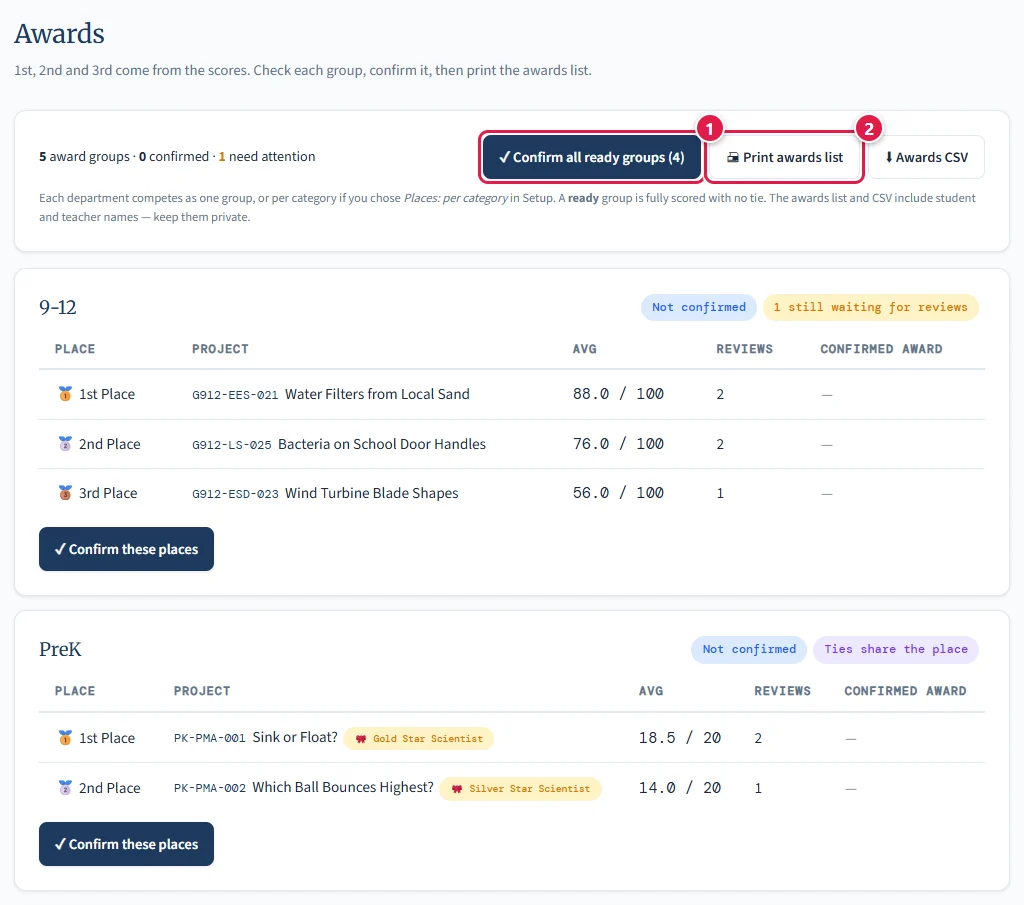
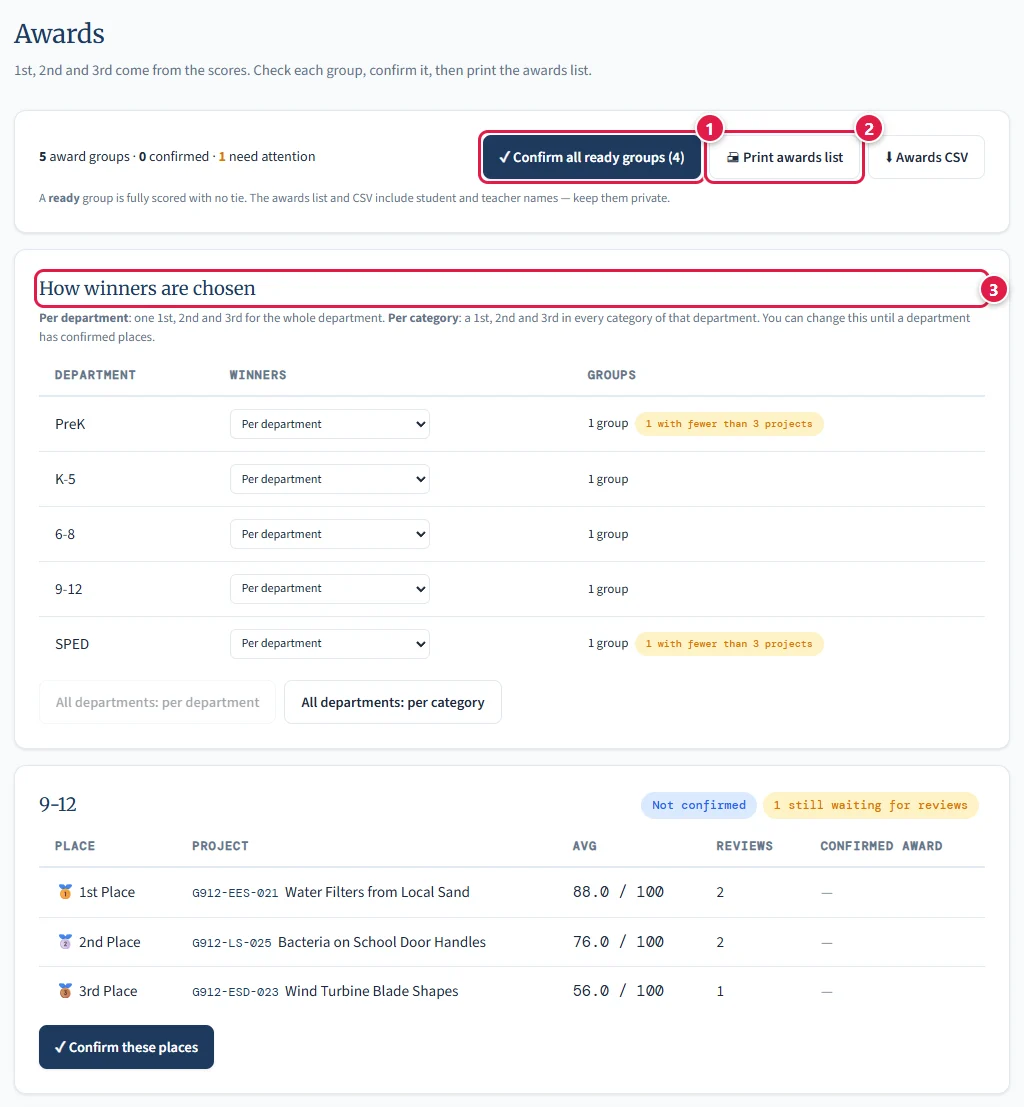
feat(awards): choose winners per department or per category on the Awards tab
- Awards tab "How winners are chosen": per department / per category for each
  scored department, plus "All departments" buttons. Same setting as Setup's
  Places dropdown; updateDeptAwardGrouping() now returns its refusal and reports
  it where the admin pressed. A refused department never blocks the others.
- Chips for groups that cannot award three places (1 project: uncontested 1st;
  2 projects: no 3rd), and a per-department count.
- Help, admin guide step + screenshot marker, AdminInstructions (the "change it
  at any time" line was wrong), CLAUDE.md change history + known gaps.
- New scripts/e2e/awards-category.e2e.mjs (17 checks, mutation-tested).

diff --git a/src/ScienceFairJudging.jsx b/src/ScienceFairJudging.jsx
@@ -590,7 +590,7 @@ const DIV_CODES     = { "Elementary": "Elem", "Junior High School": "JHS", "Seni
 // ⚠ KEEP THIS CURRENT. Any change that affects what admins or judges see or do must update
 // this text, ADMIN_HELP_UPDATED, AdminInstructions.md and JudgeInstructions.md in the SAME
 // commit (CLAUDE.md rule 56). Plain strings only — rendered as text, never as HTML.
-const ADMIN_HELP_UPDATED = "2026-11-16";
+const ADMIN_HELP_UPDATED = "2026-11-16b";
 const ADMIN_HELP = [
   { title: "How this system works", icon: "🧭", items: [
     "Your fair lives at qritiko.com/s/your-school. Share only that link — never another address (judges' unsynced scores are tied to the address they used).",
@@ -696,14 +696,16 @@ const ADMIN_HELP = [
     ["Can I ignore the suggestion?", "Yes, completely. Tick the grid however you like — it is only a starting point. Apply never saves on its own."],
   ]},
   { title: "Awards (1st, 2nd, 3rd)", icon: "🏅", faq: [
-    ["Who competes with whom?", "By default everyone in a DEPARTMENT competes for its 1st, 2nd and 3rd. In Setup → Departments each scored department has a second dropdown, 'Places: per department / per category'. Per category gives every category inside that department its own 1st–3rd (e.g. 6-8 Life Science, 6-8 Chemistry …). Use it only where categories have enough projects — a category with one project would get an uncontested 1st."],
+    ["Who competes with whom?", "By default everyone in a DEPARTMENT competes for its 1st, 2nd and 3rd. Per category gives every category inside that department its own 1st–3rd (e.g. K-5 Life Science, K-5 Chemistry …). Choose it on the Awards tab under 'How winners are chosen' (one department, or All departments at once) or in Setup → Departments ('Places: per department / per category') — it is the same setting. A category with ONE project gets an uncontested 1st whatever its score, and one with two projects has no 3rd; the Awards tab marks those groups."],
+    ["We want 3 winners in EACH category of a department. How?", "Awards tab → How winners are chosen → set that department to Per category. Every category in it then gets its own 1st, 2nd and 3rd, and Confirm all ready groups confirms them all in one go. Do it BEFORE you confirm any places: once a department has confirmed places the switch is refused (press Clear confirmed places on its groups first). Switching never changes a score. To go back, choose Per department the same way."],
     ["Do I have to type every award?", "No. The Awards tab shows every group with its top three already worked out from the scores. Check it and press '✓ Confirm these places', or '✓ Confirm all ready groups' to confirm every group that is fully scored and has no tie, in one go. Honorable Mention and Best in Category you give in the Validation tab: press Open Manually (or Open Deliberation on a tie alert), choose the award beside the project and Save, then Close Deliberation — Finalize needs deliberation closed. A project holds one award: once it has a saved Honorable Mention, Best in Category or No Award it is out of the running for 1st–3rd, and the place passes to the next project."],
     ["What do the coloured labels mean?", "Not confirmed — nothing saved yet. ✓ Confirmed — saved and still what the scores say. Tie for 1st/2nd/3rd — two projects are level where it decides a place; decide it in Validation → Deliberation. ✓ Decided by hand — you gave the places yourself (e.g. after a tie). A tie counts as decided once all but one of the tied projects have an award you saved after the last score changed (the last one takes the place that is left). Only some places confirmed — you saved some places; press Confirm the remaining places. Scores changed since you confirmed — a judge re-scored after you confirmed; press Re-confirm, or decide by hand. 'N not scored yet' — some projects in the group have no score. 'N still waiting for reviews' — some projects have fewer reviews than they should get (their scheduled visits); the group is not ready until they are in. Groups that need you are listed first, and the Awards menu item shows how many."],
     ["What do the public results show — my awards or the scores?", "Your confirmed awards, once a group has any; until then the places worked out from the scores. That is how a tie you broke in deliberation reaches the podium. If you clear a group ('Clear confirmed places') it goes back to the computed places."],
     ["Which ties raise the amber alert?", "Only ties that decide a place: two projects level for 1st, 2nd or 3rd, or level across 3rd and 4th, in the same award group. A tie lower down decides nothing and does not raise it. A tie you have already decided (all but one of the tied projects have an award saved after the last score change), and ties on the PreK & SPED form (they share the place), never do. Saving only some places does NOT decide a tie further down. Finalize stays unavailable while a tie still decides a place."],
     ["How do I get the list for the ceremony?", "Awards tab → '🖨 Print awards list' (or '⬇ Awards CSV'): every group with its places, any special award, every ribbon, the student names and the teacher. It includes names, so it is for you only — never post it. Groups you have not confirmed yet are marked 'computed, not confirmed yet'."],
     ["How do I open deliberation?", "It never opens by itself. A tie that decides a place shows an amber 'Tie detected' alert in the Validation tab with an Open Deliberation button; Open Manually works any time. While it is open, judges see a 💬 Deliberation Notes section under their list (a recommendation, a comment, a flag), you see their notes per project and can give any award. Press Close Deliberation when you are done — Finalize needs it closed."],
-    ["Where do I choose places per department or per category?", "Setup → Departments: each scored department's row has a dropdown 'Places: per department' — beside the rubric dropdown. If you cannot see it, reload the page."],
+    ["Where do I choose places per department or per category?", "Two places, one setting: the Awards tab → How winners are chosen (per department, or All departments at once), or Setup → Departments → the 'Places: per department' dropdown beside the rubric dropdown. If you cannot see it, reload the page."],
+    ["Why can't I switch a department to per category (or back)?", "It already has confirmed places. They belong to projects, so switching would carry them into the wrong groups. On the Awards tab press Clear confirmed places on that department's groups, switch, then confirm again. After Finalize the choice is read-only."],
     ["Can I change awards after I finalize?", "Not while results are finalized — the Awards tab becomes read-only. Reopen the results in the Validation tab, change them, and finalize again. While results are reopened, the public link shows \"Results are being updated\" (the same link works again once you finalize). To take a saved award back, choose Pending in its dropdown and press Save (remove award) — a dropdown change does nothing until it is saved."],
   ]},
   { title: "PreK & SPED: ribbons and shared places", icon: "🎀", faq: [
@@ -950,6 +952,7 @@ const ADMIN_GUIDE = [
     points: [
       "✓ Confirm all ready groups — confirms every group that is fully scored and has no tie, in one go.",
       "🖨 Print awards list for the ceremony. It has student names — staff only.",
+      "How winners are chosen — per department (one 1st–3rd) or per category (a 1st–3rd in every category). Decide before you confirm.",
     ],
     tip: "Awards tab. Groups that need you (a tie, missing reviews, changed scores) are listed first. Decide a tie in Validation → Open Deliberation." },
   { img: "admin-9-validation", title: "Validate and finalize",
@@ -5724,37 +5727,64 @@ export default function App() {
       mode === "confirm" ? "Admin confirmed computed places" : "Admin cleared confirmed places",
       { groups: groups.length, awards: placed, cleared: rows.length - placed });
   }
-  async function updateDeptAwardGrouping(deptId, value) {
+  // `report` shows a refusal where the admin pressed the control (Setup, or the Awards tab —
+  // 2026-11-16). Returns "" on success (or nothing to change), else the message shown.
+  async function updateDeptAwardGrouping(deptId, value, report = setSetupErr) {
     const dept = departments.find(d => d.id === deptId);
-    if (!dept || (value !== "category" && value !== "department") || dept.award_grouping === value) return;
-    setSetupErr("");
+    if (!dept || (value !== "category" && value !== "department") || dept.award_grouping === value) return "";
+    report("");
     // F7d (N6): confirmed places belong to projects, not to groups. Regrouping with places saved
     // carried them into the new groups — per category → per department gave one department six
     // 1sts on the public podium. Clear them first; never after results are finalized.
     if (resultsFinalized) {
-      setSetupErr(`Results are finalized — reopen them (Validation tab) before changing how "${dept.name}" awards places.`);
-      return;
+      const msg = `Results are finalized — reopen them (Validation tab) before changing how "${dept.name}" awards places.`;
+      report(msg);
+      return msg;
     }
     const placedHere = projects.filter(p => (p.department_id || null) === deptId
       && finalDecisions[p.id]?.finalized && PLACE_AWARDS.includes(finalDecisions[p.id].award));
     if (placedHere.length) {
-      setSetupErr(`"${dept.name}" already has ${placedHere.length} confirmed place${placedHere.length !== 1 ? "s" : ""}. Clear them on the Awards tab first, then change how it awards places — otherwise they would land in the wrong groups.`);
-      return;
+      const msg = `"${dept.name}" already has ${placedHere.length} confirmed place${placedHere.length !== 1 ? "s" : ""}. Clear them on the Awards tab first, then change how it awards places — otherwise they would land in the wrong groups.`;
+      report(msg);
+      return msg;
     }
     const { data, error } = await supabase.from("departments").update({ award_grouping: value })
       .eq("school_id", currentSchool.id).eq("id", deptId).select("id");
     if (error || !data?.length) {
       const missing = MISSING_COL(error);
-      setSetupErr(missing
+      const msg = missing
         ? "Awarding by category needs database update 2026-10f, which has not been run. Nothing was changed."
-        : `Could not change how "${dept.name}" awards places: ${error?.message || "nothing was saved"}`);
+        : `Could not change how "${dept.name}" awards places: ${error?.message || "nothing was saved"}`;
+      report(msg);
       addItLog(missing ? "WARN" : "ERROR","DB", missing ? "AWARD_GROUPING_COL_MISSING" : "AWARD_GROUPING_FAILED",
         "A department's award grouping could not be written", { dept: dept.name, value, error: error?.message || "0 rows" });
-      return;
+      return msg;
     }
     setDepartments(prev => prev.map(d => d.id === deptId ? { ...d, award_grouping: value } : d));
     addLog(`Admin set ${dept.name} to award places ${value === "category" ? "per category" : "per department"}`);
     addItLog("INFO","ADMIN","AWARD_GROUPING_SET","Admin changed how a department awards places",{ dept: dept.name, value });
+    return "";
+  }
+  // Awards tab (2026-11-16): change one department, or every scored department at once. One
+  // write per department, in order; a refused department (confirmed places, finalized) is named
+  // and the others still change. Nothing here touches a score or an award.
+  async function setAwardGroupingFromAwards(deptIds, value) {
+    if (awardsBusy) return;
+    setAwardsMsg(null);
+    const targets = departments.filter(d => d.id && deptIds.includes(d.id) && d.scoring_mode !== "feedback" && (d.award_grouping || "department") !== value);
+    if (!targets.length) { setAwardsMsg({ ok: true, text: "Nothing to change." }); return; }
+    setAwardsBusy(true);
+    const refused = [];
+    for (const d of targets) {
+      const msg = await updateDeptAwardGrouping(d.id, value, () => {});
+      if (msg) refused.push(msg);
+    }
+    setAwardsBusy(false);
+    const changed = targets.length - refused.length;
+    const how = value === "category" ? "per category" : "per department";
+    setAwardsMsg(refused.length
+      ? { ok: false, text: `${changed ? `${changed} department${changed !== 1 ? "s" : ""} changed to places ${how}. ` : ""}Not changed: ${refused.join(" ")}` }
+      : { ok: true, text: `${targets.map(d => d.name).join(", ")} now award${targets.length === 1 ? "s" : ""} places ${how}.` });
   }
   // Every place in one department, across its groups (leaderboard).
   function deptPlaces(deptId) {
@@ -12113,10 +12143,64 @@ export default function App() {
                     </div>
                   </div>
                   <div style={{fontSize:".78rem",color:"var(--dim)",marginTop:".6rem",lineHeight:1.5}}>
-                    Each department competes as one group, or per category if you chose <i>Places: per category</i> in Setup.
                     A <b>ready</b> group is fully scored with no tie. The awards list and CSV include student and teacher names — keep them private.
                   </div>
                 </div>
+                {/* 2026-11-16: choose here (as well as in Setup) whether a department gives 1st–3rd once,
+                    or once in every category. Same rules as Setup: refused while that department has
+                    confirmed places or results are finalized. */}
+                {(() => {
+                  const scoredDepts = departments.filter(d => d.id && d.scoring_mode !== "feedback" && rankedProjectsIn(d.id).length);
+                  if (!scoredDepts.length) return null;
+                  const nCat = scoredDepts.filter(d => d.award_grouping === "category").length;
+                  return (
+                    <div className="card" data-testid="awards-grouping" style={{marginBottom:"1rem"}}>
+                      <div className="sec-title" style={{marginBottom:".35rem"}}>How winners are chosen</div>
+                      <div style={{fontSize:".8rem",color:"var(--dim)",lineHeight:1.5,marginBottom:".6rem"}}>
+                        <b>Per department</b>: one 1st, 2nd and 3rd for the whole department.{" "}
+                        <b>Per category</b>: a 1st, 2nd and 3rd in every category of that department.
+                        You can change this until a department has confirmed places.
+                      </div>
+                      <div className="tbl-wrap">
+                        <table>
+                          <thead><tr><th>Department</th><th>Winners</th><th>Groups</th></tr></thead>
+                          <tbody>
+                            {scoredDepts.map(d => {
+                              const gs = groups.filter(g => g.deptId === d.id);
+                              const small = gs.filter(g => g.projects.length < 3).length;
+                              return (
+                                <tr key={d.id} data-testid="grouping-row" data-dept={d.name}>
+                                  <td>{d.name}</td>
+                                  <td>
+                                    <select className="setup-mode" value={d.award_grouping || "department"}
+                                      aria-label={`Winners for ${d.name}`} disabled={awardsBusy || resultsFinalized}
+                                      onChange={e => setAwardGroupingFromAwards([d.id], e.target.value)}>
+                                      <option value="department">Per department</option>
+                                      <option value="category">Per category</option>
+                                    </select>
+                                  </td>
+                                  <td style={{fontSize:".8rem"}}>
+                                    {gs.length} group{gs.length !== 1 ? "s" : ""}
+                                    {small > 0 && <span className="badge ba" data-testid="grouping-small" style={{marginLeft:".4rem",fontSize:".62rem"}}>
+                                      {small} with fewer than 3 projects</span>}
+                                  </td>
+                                </tr>
+                              );
+                            })}
+                          </tbody>
+                        </table>
+                      </div>
+                      <div style={{display:"flex",gap:".5rem",flexWrap:"wrap",marginTop:".6rem"}}>
+                        <button className="btn sec sm" style={{width:"auto"}} data-testid="grouping-all-dept"
+                          disabled={awardsBusy || resultsFinalized || nCat === 0}
+                          onClick={() => setAwardGroupingFromAwards(scoredDepts.map(d => d.id), "department")}>All departments: per department</button>
+                        <button className="btn sec sm" style={{width:"auto"}} data-testid="grouping-all-cat"
+                          disabled={awardsBusy || resultsFinalized || nCat === scoredDepts.length}
+                          onClick={() => setAwardGroupingFromAwards(scoredDepts.map(d => d.id), "category")}>All departments: per category</button>
+                      </div>
+                    </div>
+                  );
+                })()}
                 {!groups.length && <div className="card" style={{color:"var(--dim)"}}>No scored departments yet.</div>}
                 {shown.map(g => {
                   const { st } = g;
@@ -12134,6 +12218,8 @@ export default function App() {
                           {st.unscored > 0 && chip("ba", `${st.unscored} not scored yet`, "st-unscored")}
                           {st.missing > 0 && chip("ba", `${st.missing} still waiting for reviews`, "st-missing")}
                           {g.projects[0] && tiesShare(g.projects[0]) && chip("bp", "Ties share the place", "st-share")}
+                          {g.projects.length === 1 && chip("ba", "Only 1 project — 1st is uncontested", "st-single")}
+                          {g.projects.length === 2 && chip("ba", "Only 2 projects — no 3rd place", "st-two")}
                         </div>
                       </div>
                       {st.state === "tie" && (

diff --git a/CLAUDE.md b/CLAUDE.md
@@ -31,7 +31,7 @@ and runs its own fair with isolated data, its own rubric and its own admin login
 | Deploy | Push to `main` → auto-deploys. No manual steps |
 | Base schema | [supabase/schema-v2.sql](supabase/schema-v2.sql) (**base only**) + every migration below, in order |
 | Tests | `npm test` — mocked scan API + mocked registration email + real-Postgres (PGlite) migration/RLS/Storage-policy suite (311 checks). Run after any `supabase/*.sql` or `api/` change |
-| Browser tests | `npm run test:e2e` — real app in Edge with Supabase + scan API faked (`scripts/e2e/mock.mjs`): school sign-up, admin, scanner, judge, Setup tab, public registration, phone/tablet widths, multi-judge judging (`judging.e2e.mjs`), the 2026-27 forms + drafts + safety (`rubrics-2627.e2e.mjs`), the judging schedule (`schedule.e2e.mjs`), the PreK & SPED form (`prek-sped.e2e.mjs`), awards (`awards.e2e.mjs`). Start the dev server first (see the file header). 2026-11 added save-robust, offline-start, realtime-reconnect (a fake realtime server via `page.routeWebSocket`), awards-integrity, finalize-gates, signin-guard, share-links, admin-actions, judge-ux, judge-identity; 2026-11-05 help-guide (the illustrated guides); 2026-11-06 schedule-template. **656 checks across 36 files** (2026-11-06; signup and save-robust each flaked once in a chained run and passed alone). `npm run help:shots` (same dev server) re-takes the guide screenshots — not a test |
+| Browser tests | `npm run test:e2e` — real app in Edge with Supabase + scan API faked (`scripts/e2e/mock.mjs`): school sign-up, admin, scanner, judge, Setup tab, public registration, phone/tablet widths, multi-judge judging (`judging.e2e.mjs`), the 2026-27 forms + drafts + safety (`rubrics-2627.e2e.mjs`), the judging schedule (`schedule.e2e.mjs`), the PreK & SPED form (`prek-sped.e2e.mjs`), awards (`awards.e2e.mjs`). Start the dev server first (see the file header). 2026-11 added save-robust, offline-start, realtime-reconnect (a fake realtime server via `page.routeWebSocket`), awards-integrity, finalize-gates, signin-guard, share-links, admin-actions, judge-ux, judge-identity; 2026-11-05 help-guide (the illustrated guides); 2026-11-06 schedule-template; 2026-11-16 validate-queued, awards-category. **684 checks across 38 files** (2026-11-16; signup and save-robust each flaked once in a chained run and passed alone). `npm run help:shots` (same dev server) re-takes the guide screenshots — not a test |
 | Server env vars | `GEMINI_API_KEY` (paid key), optional `GEMINI_MODEL`, `RESEND_API_KEY`, `EMAIL_FROM` — Vercel only, never `VITE_` |
 
 ⚠ **Apex outage, 2026-10-01:** the apex A record pointed at `216.198.79.1`, which answered
@@ -702,7 +702,8 @@ awardGroups()                // Phase 3 (rule 79): [{key, deptId, deptName, cat|
                              // one per department, or per category where award_grouping = "category"
 confirmedPlaces(projs), groupPlaces(projs), deptPlaces(deptId)   // confirmed awards win over computed places
 groupTie(g), tieGroups(), hasTie(), groupStatus(g)   // medal-deciding ties per group; Awards-tab state
-confirmAwardGroups(groups, "confirm"|"clear"), updateDeptAwardGrouping(id, v)
+confirmAwardGroups(groups, "confirm"|"clear"), updateDeptAwardGrouping(id, v, report?) → "" | refusal text
+setAwardGroupingFromAwards(deptIds, v)   // Awards tab "How winners are chosen" (one department or all); a refused department never blocks the others
 awardsListRows(), printAwardsList(), exportAwardsCSV()   // ceremony list — names, admin only
 tiesShare(proj), ribbonOf(proj)   // PreK & SPED form (rule 78): tied averages share a place; the ribbon
 ribbonFor(settings, avg)     // module: the ribbon band for an average, or null when the rubric has none
@@ -1165,6 +1166,31 @@ Migrations table above, and say in the commit whether it is coupled to the app b
 ## 🐛 Change History (condensed)
 
 Full detail is in the git log for each commit.
+
+**2026-11-16 — Winners per category chosen on the Awards tab; per-category stress test** (no migration).
+The organiser asked for 3 winners in EACH category (e.g. K-5). That already existed (Setup → Places: per category,
+Phase 3) but was hidden in Setup; live had every department per department.
+- **Awards tab → How winners are chosen**: per department / per category for each scored department, plus
+  "All departments: per department / per category". Same setting as Setup (`departments.award_grouping`),
+  through the same `updateDeptAwardGrouping()`, which now RETURNS the refusal and reports it where the admin
+  pressed (rule 55: a refused switch was only shown in Setup). A refused department (confirmed places,
+  finalized) is named and the others still switch. Disabled after Finalize.
+- Group chips **Only 1 project — 1st is uncontested** / **Only 2 projects — no 3rd place**, and a
+  "N with fewer than 3 projects" count per department. On the live data per category gives K-5 FIVE groups,
+  four of them a single project (each an automatic 1st, whatever its score).
+- Help: two new Q&As, Awards guide point 3 + marker 3 in admin-8-awards.webp, AdminInstructions (it wrongly
+  said the setting could change "at any time" — it is refused once places are confirmed).
+Tests: new `scripts/e2e/awards-category.e2e.mjs` (17, live-shaped K-5: per-department top 3, switch from the
+Awards tab in ONE write, 5 groups, LS 1st–3rd, single-project 1sts + chips, Setup shows the same choice,
+leaderboard 5×🥇, All departments, a tie inside a category held back, Confirm all = ONE write of 9 places,
+refusal shown ON the Awards tab with nothing written, partial "All departments" naming the refused one, IT log,
+read-only after Finalize). **Mutation-tested**: refusals swallowed → 2 fail; grouping ignored → 4 fail.
+**Stress:** the 15-judge / 16-device concurrency harness (gitignored, `scripts/e2e/out/`, see
+CONCURRENCY_AUDIT_2026-11-12.md) re-run with EVERY department per category and a per-category oracle: 18 award
+groups, 17 tie-free groups' 1st–3rd = the oracle, one tie flagged (6-8 ERT 3rd), Confirm all = ONE write of
+exactly the oracle's 41 places, live and reloaded leaderboards = the oracle. 25/26 — the one fail is the known
+audit-trail gap (a reload during "Saving…" loses the SCORE_SUBMITTED line, not the score).
+Lint 28/5 unchanged; awards, awards-integrity, prek-sped, finalize-gates, help-guide all pass.
 
 **2026-11-16 — A judge may not validate while this device still holds unsent scores** (no migration).
 Found by an external read-only audit (F04) and confirmed in the code: completion counts QUEUED scores, so a
@@ -2275,6 +2301,13 @@ send student names or scores; log counts, not question text. Its answers are onl
 text — keep rule 56.
 
 ### Known gaps (not yet fixed)
+
+- **Per category (found 2026-11-16, not fixed — decisions for the organiser):** (1) a single-project category
+  gets an uncontested 1st (K-5 live: 4 of 5 categories) — flagged on the Awards tab; Minimum score to place is the
+  only lever. (2) **"Best in Category" is a non-place award, so giving it to a category's 1st-place project takes
+  that 1st away** (`heldOutOfPlaces`) and the 2nd moves up — natural to do by mistake under per category.
+  (3) The judge's validation list and the Overview "#" column rank the whole DEPARTMENT, while medals are per
+  category (a 🥇 can sit beside rank 7). (4) A renamed category's old text forms a separate award group (see below).
 
 - **A judge whose tablet's key is no longer valid is not told so directly** (found 2026-11-05). The SQL refuses
   with "This device is not signed in as that judge", but a refused score is queued and the judge sees only

diff --git a/AdminInstructions.md b/AdminInstructions.md
@@ -153,6 +153,8 @@ database — the downloaded files are your real copy. See [Event-day backup plan
 
 1. **✓ Confirm all ready groups** — confirms every group that is fully scored and has no tie, in one go.
 2. **🖨 Print awards list** for the ceremony. It has student names — staff only.
+3. **How winners are chosen** — per department (one 1st–3rd) or per category (a 1st–3rd in every category).
+   Decide this before you confirm.
 
 💡 Groups that need you (a tie, missing reviews, changed scores) are listed first. Decide a tie in
 Validation → **Open Deliberation**.
@@ -276,16 +278,22 @@ A new school starts with **Elementary / Middle School / High School**, but that 
 #### Places: per department or per category
 
 Each scored department has a second dropdown, **Places: per department** (default) or **Places: per
-category**. It decides who competes for 1st, 2nd and 3rd:
+category**. The same choice is on the **🏅 Awards** tab under **How winners are chosen**, with buttons to
+set **all departments** at once. It decides who competes for 1st, 2nd and 3rd:
 
 - **Per department** — every project in the department competes together: one 1st, 2nd, 3rd.
 - **Per category** — each category inside that department has its own 1st, 2nd, 3rd (e.g. *6-8 · Life
   Science*, *6-8 · Chemistry & Material Science*). The public results show the department split into its
   categories.
 
-Choose per category only where each category has several projects — a category with a single project
-would get an uncontested 1st. You can change it at any time; groups you already confirmed on the Awards
-tab will then say *Scores changed since you confirmed* so you can re-confirm.
+Per category means more winners: a department with 5 categories gives up to five 1st, five 2nd and five
+3rd places. **A category with one project gets an uncontested 1st, whatever its score**, and a category with
+two projects has no 3rd — the Awards tab marks those groups (*Only 1 project — 1st is uncontested*,
+*Only 2 projects — no 3rd place*). If that is not wanted, keep that department per department, or set a
+**Minimum score to place** (Setup) so a low score cannot take a medal.
+
+You can switch until the department has **confirmed places**. After that the switch is refused and says
+why — press **Clear confirmed places** on its groups first, then switch. A switch never changes a score.
 
 #### Which rubric — or comments only?
 
@@ -811,6 +819,11 @@ A score a tablet scored offline still arrives after Finalize; IT Logs then shows
 
 The **🏅 Awards** tab turns the scores into places without typing a single award.
 
+**How winners are chosen** (top of the tab): for each department, **Per department** or **Per category**, and
+**All departments: per department / per category** to set them all. It is the same setting as Setup's
+*Places* dropdown. A department with confirmed places cannot switch (the message names it — clear its places
+first); the other departments still switch. Read-only after Finalize.
+
 1. Each **award group** — a department, or a category inside it (see *Places: per department or per
    category*) — is a card with its projects in order and the computed **🥇 1st / 🥈 2nd / 🥉 3rd**.
 2. A group is **ready** when every project has **all the reviews it should get** (its scheduled visits, or
@@ -830,6 +843,8 @@ The **🏅 Awards** tab turns the scores into places without typing a single awa
 | **Scores changed since you confirmed** | A judge re-scored after you confirmed | **↻ Re-confirm from the scores**, or decide by hand |
 | **✓ Confirmed** | Saved, and still what the scores say | Nothing |
 | **Ties share the place** | PreK & SPED form — tied children share the place | Nothing (see *PreK & SPED: ribbons and shared places*) |
+| **Only 1 project — 1st is uncontested** | Per category, and this category has a single project | Nothing, or switch the department to per department |
+| **Only 2 projects — no 3rd place** | Per category, and this category has two projects | Nothing |
 
 **What the public sees.** Once a group has confirmed places, the public podium and ranked table show
 **your** places — that is how a tie you broke reaches the podium. A place you have not confirmed still

diff --git a/PORTFOLIO_LOG.md b/PORTFOLIO_LOG.md
@@ -361,3 +361,12 @@ Honest, specific notes on work done, for later portfolio/interview use.
 - **Portfolio angle:** "Verified a live event's 179-visit judging schedule against production and every judge's tablet
   without writing to production, caught an import-breaking code mismatch before it reached the event, and turned the
   hand-built schedule into a reusable template for other schools."
+
+### 2026-11-16 — Winners per category on the Awards tab + a 15-device per-category stress test
+- **Project:** Qritiko — science fair judging app
+- **What I built/fixed:** A "How winners are chosen" control on the Awards tab (per department or per category, for one department or all at once), warnings on award groups too small to give three places, and a per-category stress test of the whole scoring-to-awards path.
+- **Why I built it:** The organiser wanted 3 winners in every category of the K-5 department. The feature already existed but was buried in Setup, and nobody had checked what it does to the real fair data.
+- **Problem(s) encountered:** Applied to the live data, K-5 splits into 5 categories and 4 of them hold a single project, so per category hands out four uncontested 1st places — not a bug, but a policy surprise. The existing grouping change only reported refusals into the Setup tab's error line, so a refused switch on the Awards tab would have looked like "nothing happened". The admin guide claimed the setting could change "at any time"; the code refuses it once places are confirmed. Reading the code also showed that "Best in Category" is treated as a non-place award, so giving it to a category's winner silently removes their 1st place.
+- **How I solved it:** Made the grouping change return its refusal text and report it wherever the admin pressed the control; a bulk switch applies department by department and names any refused department without blocking the rest. Added "uncontested" / "no 3rd place" chips. Extended my 16-browser concurrency harness with a per-category oracle (independent integer arithmetic) and Awards-tab checks: 18 groups, 41 confirmed places in one write, all equal to the oracle. Mutation-tested the new browser test (2 and 4 checks fail on deliberately broken code).
+- **Skills/tools demonstrated:** React state + async handler design, Playwright multi-context concurrency testing, oracle-based verification, mutation testing, React Compiler lint baseline discipline, end-user documentation.
+- **Portfolio angle:** "Surfaced a hidden awards mode for a live school event, stress-tested it with 15 simulated judges against an independent oracle, and flagged the policy edge cases (uncontested winners, award interactions) before the organiser hit them on event day."
